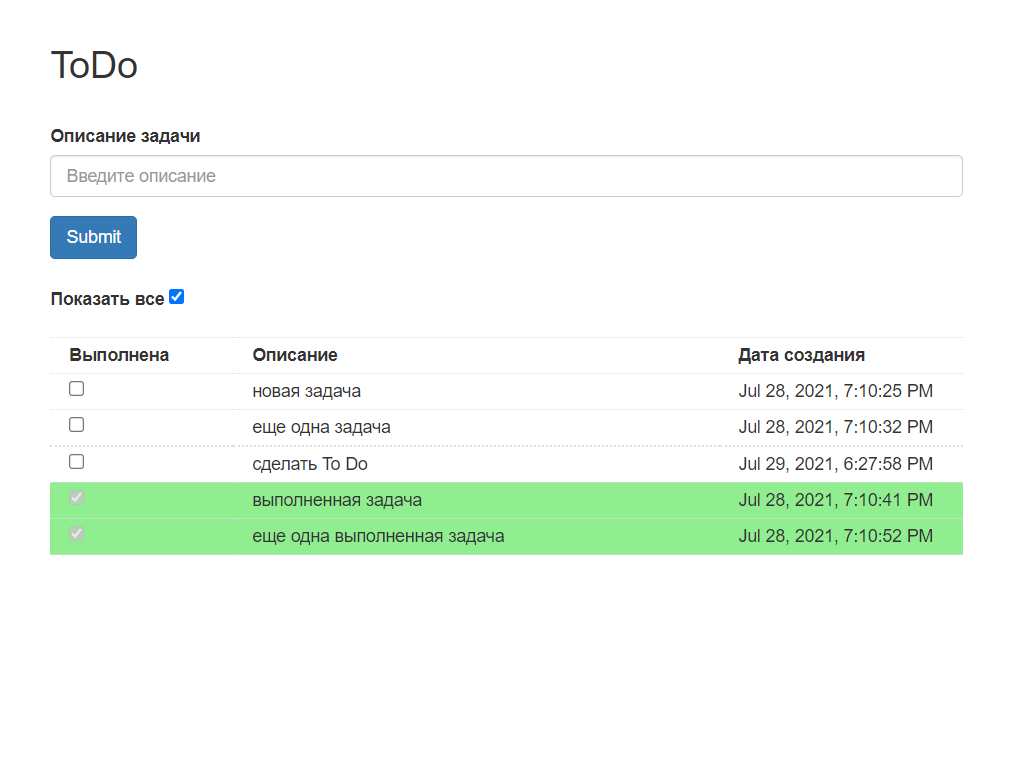
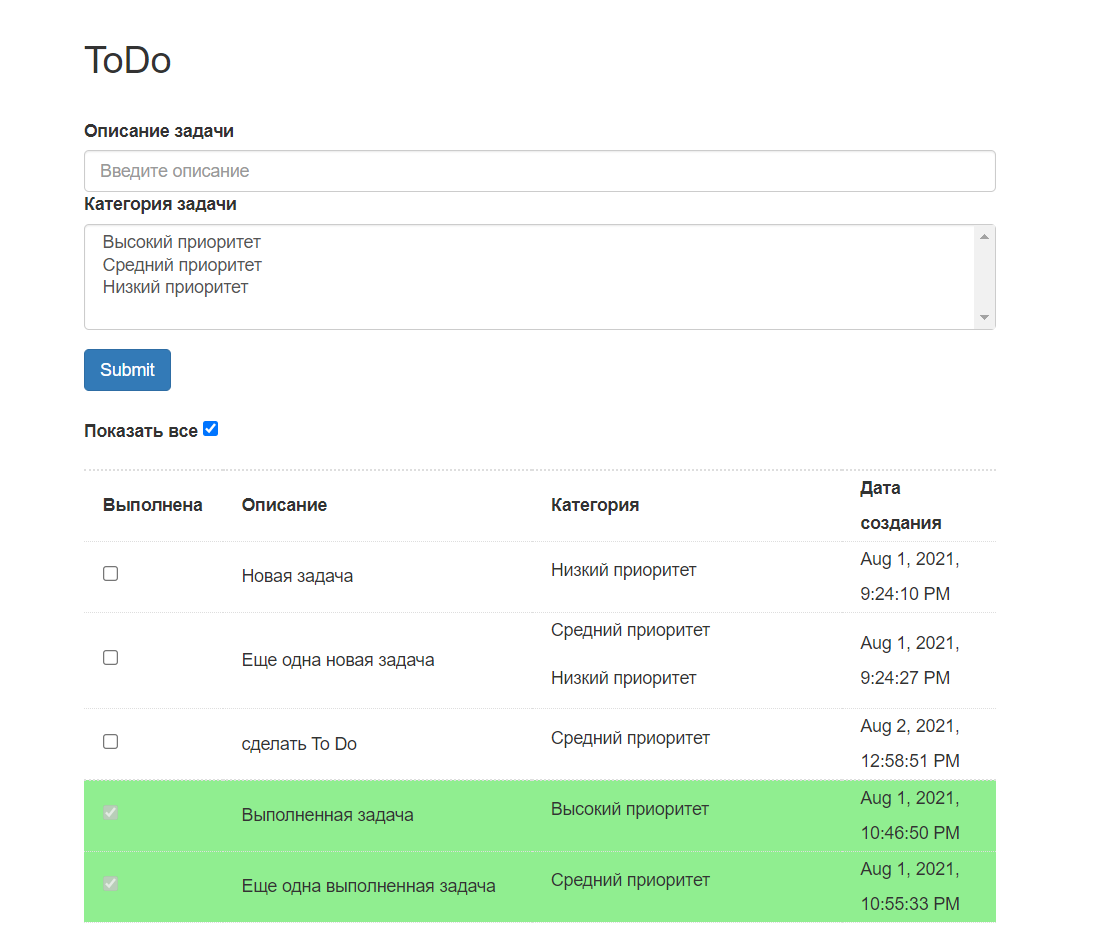
4. Категории в TODO List [#331991 #184566] screenshots added

diff --git a/README.md b/README.md
@@ -6,6 +6,8 @@ TODO список
 Если дело сделано, то его отмечают, как выполненное и оно исчезает из списка.
 Можно посмотреть список всех дел, включая выполненные.
 
+![ScreenShot](./images/7.png)
+![ScreenShot](./images/8.png)
 ![ScreenShot](./images/1.png)
 ![ScreenShot](./images/2.png)
 ![ScreenShot](./images/3.png)
